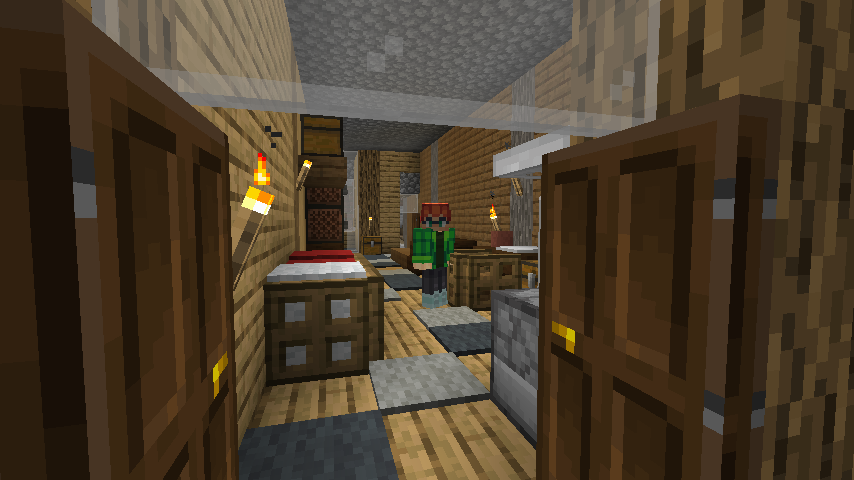
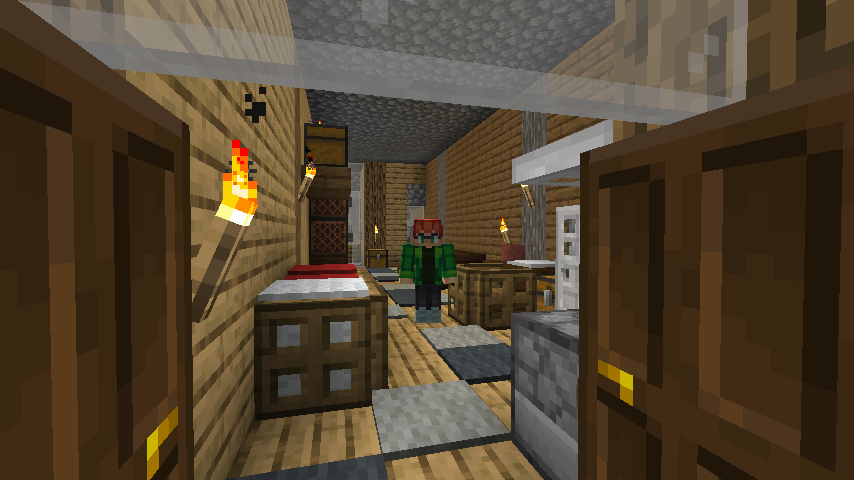
Fix readme

diff --git a/README.md b/README.md
@@ -10,7 +10,8 @@ It also supports basic rendering of players.
 That would look something like this:
 
 ![](media/examples/image2.png) <img src="media/examples/minecraft2.png" height="128"/>
-![](media/examples/image2.png) <img src="media/examples/minecraft2.png" height="128"/>
+
+![](media/examples/image3.png) <img src="media/examples/minecraft3.png" height="128"/>
 
 It works by raytracing pixels of the picture and transforming every block into a color.
 It also applies certain filters to the color depending on light level,
